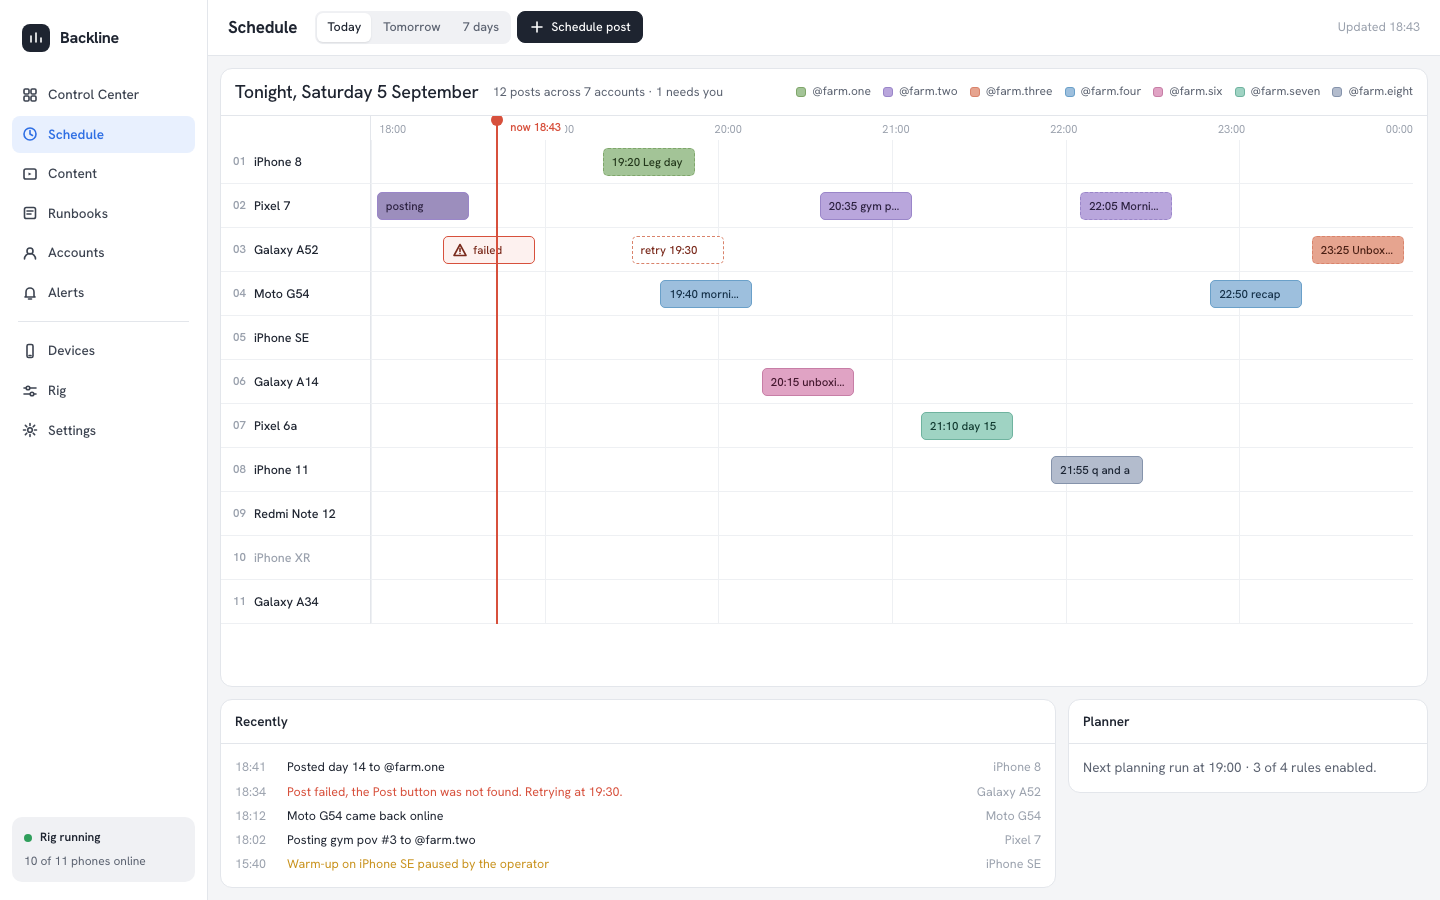
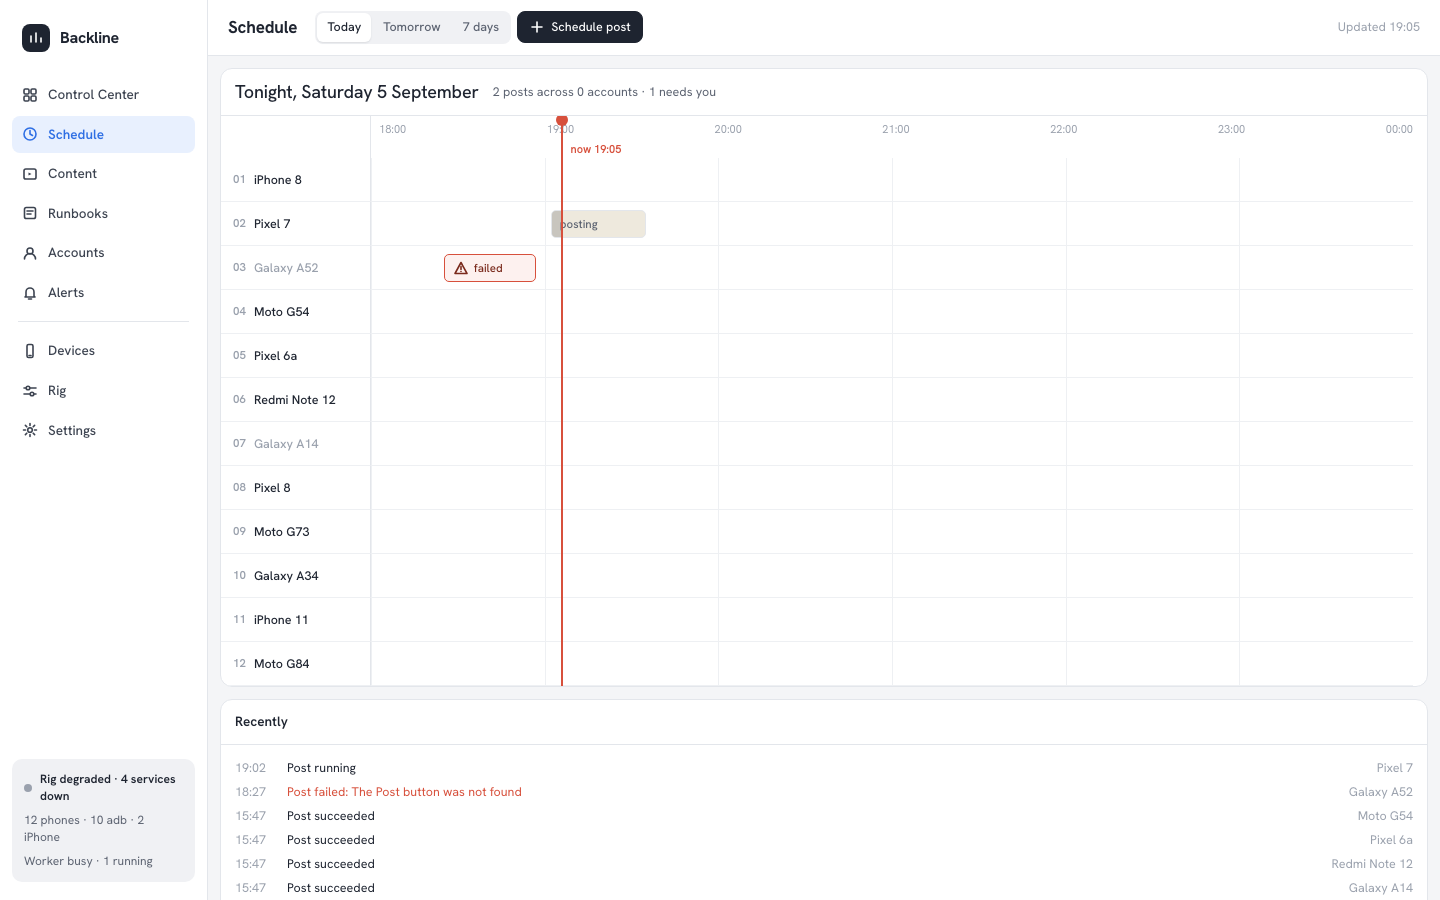
Schedule: draw the playhead label in a band under the ruler
"now 19:05" was drawn inside the 24px ruler and sat on whichever hour mark
was nearest. It gets an 18px band of its own between the ruler and the first
track; the server render and the page script build the same two grid cells.

diff --git a/static/dashboard/pages.css b/static/dashboard/pages.css
@@ -10,6 +10,8 @@
     --bl-track: 44px;
     --bl-gutter: 150px;
     --bl-ruler: 24px;
+    /* A band of its own under the ruler, so "now 19:03" never lands on an hour mark. */
+    --bl-playband: 18px;
 }
 @media (prefers-color-scheme: dark) {
     :root[data-theme="auto"] { --bl-hairline: #232832; }
@@ -69,11 +71,19 @@
 .bl-tl-device { overflow: hidden; text-overflow: ellipsis; white-space: nowrap; }
 .bl-tl-track-name[data-state="offline"] { color: var(--bl-text-4); }
 .bl-tl-empty { padding: 14px; color: var(--bl-text-3); font-size: 12.5px; }
-.bl-tl-overlay { position: absolute; left: var(--bl-gutter); right: 0; top: var(--bl-ruler); bottom: 0; pointer-events: none; }
-.bl-tl-overlay .bl-playhead { position: absolute; top: calc(var(--bl-ruler) * -1); bottom: 0; }
-/* The label sits in the ruler band and can land on an hour mark; its own
-   background keeps both readable. */
-.bl-tl-overlay .bl-playhead-label { top: 4px; padding: 0 4px; background: var(--bl-panel); border-radius: 4px; }
+.bl-tl-band { height: var(--bl-playband); }
+.bl-tl-band-corner { border-right: 1px solid var(--bl-line); height: var(--bl-playband); }
+.bl-tl-overlay {
+    position: absolute; left: var(--bl-gutter); right: 0;
+    top: calc(var(--bl-ruler) + var(--bl-playband)); bottom: 0; pointer-events: none;
+}
+.bl-tl-overlay .bl-playhead { position: absolute; top: calc((var(--bl-ruler) + var(--bl-playband)) * -1); bottom: 0; }
+/* The label lives in its own band under the ruler; the ruler's hour marks stay
+   legible whatever time it is. */
+.bl-tl-overlay .bl-playhead-label {
+    top: var(--bl-ruler); left: 6px; line-height: var(--bl-playband);
+    padding: 0 4px; background: var(--bl-panel); border-radius: 4px;
+}
 .bl-seg a, .bl-seg button { white-space: nowrap; }
 
 /* Short work still has to be readable and clickable, so a clip has a floor in pixels

diff --git a/test/schedule.test.ts b/test/schedule.test.ts
@@ -204,6 +204,11 @@ test('the schedule page renders a track per active phone through the shell', asy
     assert.doesNotMatch(page.body, /data-device="device-3"/, 'a disabled phone has no track');
     assert.match(page.body, /20:00 morning routine/);
     assert.match(page.body, /bl-playhead/);
+    // The "now HH:MM" label is drawn in a band of its own between the ruler and the
+    // first track, so it never lands on an hour mark. static/dashboard/ts/schedule.ts
+    // builds the same two cells.
+    assert.match(page.body, /bl-tl-ruler[\s\S]*?bl-tl-band-corner"><\/div><div class="bl-tl-band"><\/div>/);
+    assert.match(page.body, /class="bl-tl-band"><\/div>[\s\S]*?bl-playhead-label/);
     assert.match(page.body, /\/assets\/pages\.css\?v=/);
     assert.doesNotMatch(page.body, /iOS Farm|Phone Farm|Handler|Agniverse/);
 

diff --git a/src/schedule/page.ts b/src/schedule/page.ts
@@ -83,8 +83,11 @@ export function timelineHtml(payload: TimelinePayload): string {
     const marker = playhead === null ? ''
         : `<div class="bl-playhead" style="left:${playhead.toFixed(3)}%">`
             + `<span class="bl-playhead-label">now ${escapeHtml(hhmm(new Date(payload.now)))}</span></div>`;
+    // The playhead's label gets a band of its own between the ruler and the first
+    // track; drawn inside the ruler it sat on whichever hour mark was nearest.
     return `<div class="bl-tl" style="--bl-tl-step:${step.toFixed(4)}%">`
         + `<div class="bl-tl-corner"></div><div class="bl-tl-ruler">${head}</div>`
+        + `<div class="bl-tl-band-corner"></div><div class="bl-tl-band"></div>`
         + `${body}<div class="bl-tl-overlay">${marker}</div></div>`;
 }
 

diff --git a/static/dashboard/ts/schedule.ts b/static/dashboard/ts/schedule.ts
@@ -150,6 +150,8 @@ function render(payload: Timeline): void {
         const ruler = element('div', 'bl-tl-ruler');
         for (const tick of payload.ticks) ruler.append(element('span', undefined, tick.label));
         grid.append(ruler);
+        // The band the playhead's label is drawn in, so it never sits on an hour mark.
+        grid.append(element('div', 'bl-tl-band-corner'), element('div', 'bl-tl-band'));
         for (const track of payload.tracks) {
             const name = element('div', 'bl-tl-track-name');
             name.dataset.state = track.state;

diff --git a/static/dashboard/assets/schedule.js b/static/dashboard/assets/schedule.js
@@ -106,6 +106,8 @@ function render(payload) {
         for (const tick of payload.ticks)
             ruler.append(element('span', undefined, tick.label));
         grid.append(ruler);
+        // The band the playhead's label is drawn in, so it never sits on an hour mark.
+        grid.append(element('div', 'bl-tl-band-corner'), element('div', 'bl-tl-band'));
         for (const track of payload.tracks) {
             const name = element('div', 'bl-tl-track-name');
             name.dataset.state = track.state;
